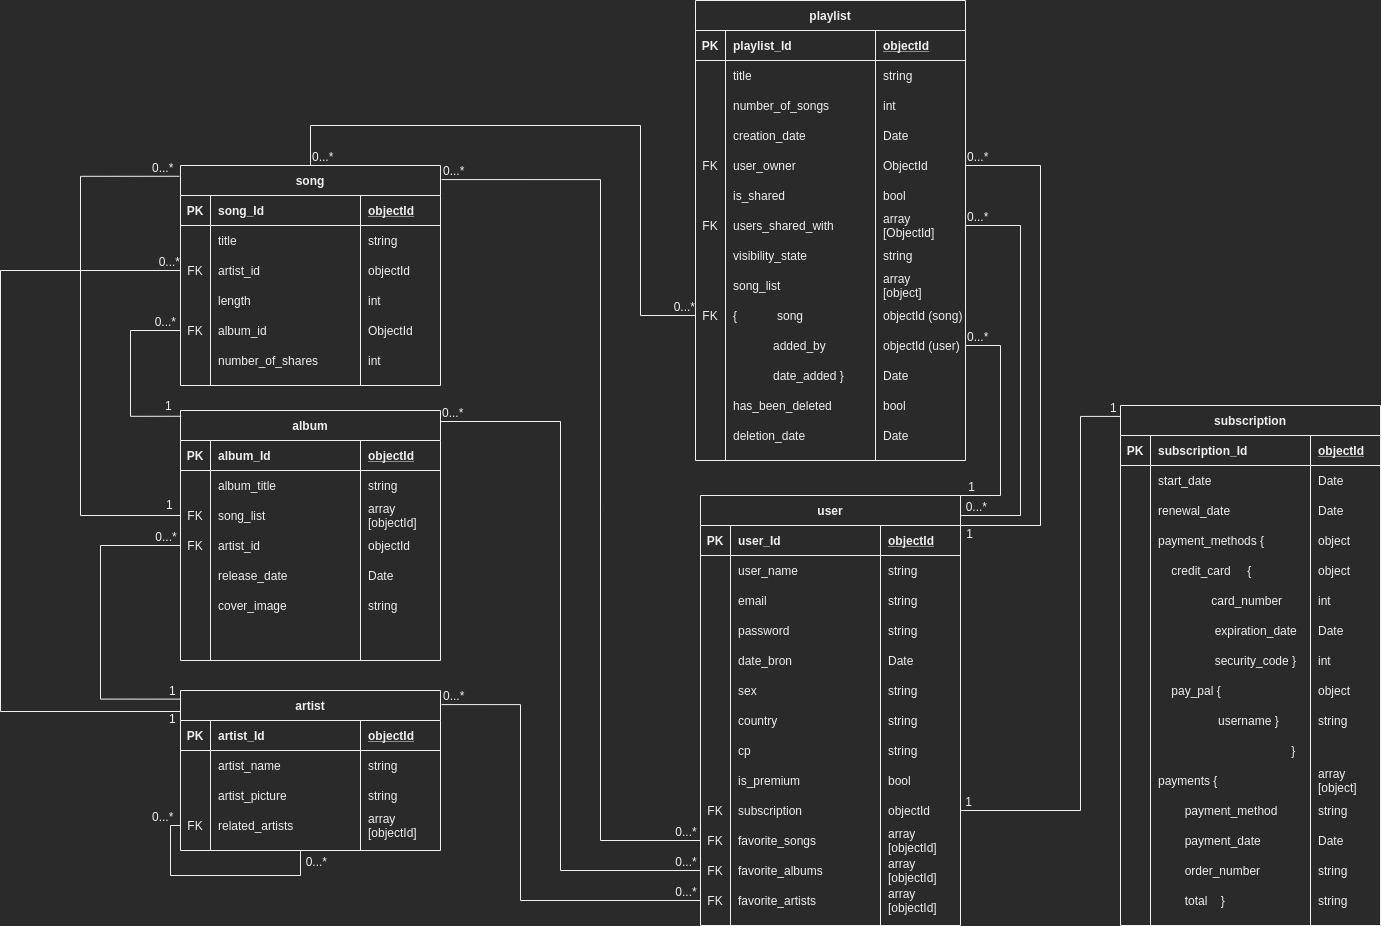
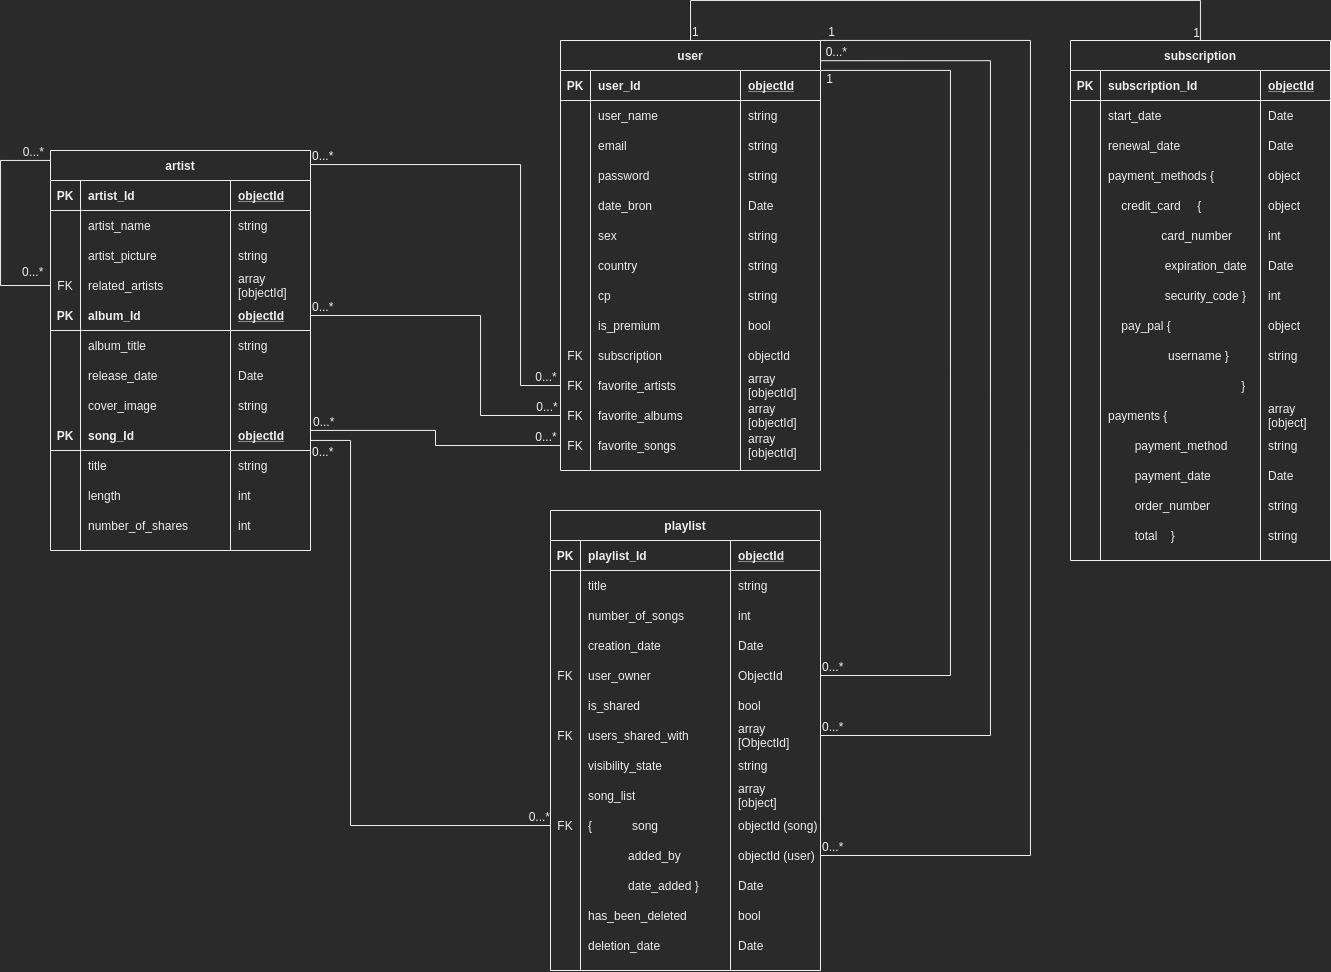
Finish all exercises

diff --git a/mongoDB-estructura/spotify-mongoDB-Script.js b/mongoDB-estructura/spotify-mongoDB-Script.js
@@ -6,67 +6,60 @@ use('ITAcademy-spotify');
 
 
 // The drop() command destroys all data from a collection.
-db.song.drop(); //
-db.album.drop();
 db.artist.drop(); //
-db.playlist.drop();
 db.user.drop()
+db.playlist.drop();
 db.subscription.drop()
-
-db.song.insertMany([{
-        _id: "Money1a897512313657",
-        title: "Money For Nothing",
-        artist: "Dire87d3a1564s6d5",
-        length: 185,
-        album: "Bro65sad8f65as465sf",
-        number_of_shares: 6598771,
-    },
-
-    {
-        _id: "Sofar6sa5d4f65s6sa5",
-        title: "So Far Away",
-        artist: "Dire87d3a1564s6d5",
-        length: 185,
-        album: "Bro65sad8f65as465sf",
-        number_of_shares: 300224,
-
-    }, {
-        _id: "alright65asd4f65as47",
-        title: "It's Alright",
-        artist: "Super87d3a1564s6d5",
-        length: 123,
-        album: "Freea6s5df4d56",
-        number_of_shares: 65496,
-    }
-])
 
 db.artist.insertMany([{
     _id: "Dire87d3a1564s6d5",
     artist_name: "Dire Straits",
     artist_picture: "https://upload.wikimedia.org/wikipedia/commons/a/a2/Dire_straits_22101985_23_800.jpg",
+    albums: [{
+        album_id: "Bro65sad8f65as465sf",
+        album_title: "Brothers in Arms",
+        release_date: ISODate("1985-09-09T06:00:00.171Z"),
+        cover_image: "https://en.wikipedia.org/wiki/Brothers_in_Arms_(album)#/media/File:DS_Brothers_in_Arms.jpg",
+        songs: [{
+            song_id: "Money1a897512313657",
+            title: "Money For Nothing",
+            artist: "Dire87d3a1564s6d5",
+            length: 185,
+            album: "Bro65sad8f65as465sf",
+            number_of_shares: 6598771,
+        },
+        {
+            song_id: "Sofar6sa5d4f65s6sa5",
+            title: "So Far Away",
+            artist: "Dire87d3a1564s6d5",
+            length: 185,
+            album: "Bro65sad8f65as465sf",
+            number_of_shares: 300224,
+    
+        }]
+    }]
 
 }, {
     _id: "Super87d3a1564s6d5",
     artist_name: "Supertramp",
     artist_picture: "https://en.wikipedia.org/wiki/Supertramp#/media/File:Supertramp1971.jpg",
-    related_artists: ["Dire87d3a1564s6d5"]
-}])
-
-db.album.insertMany([{
-    _id: "Freea6s5df4d56",
-    album_title: "Free as a Bird",
-    song_list: ["alright65asd4f65as47"],
-    artist_id: "Super87d3a1564s6d5",
-    release_date: ISODate("1987-09-09T06:00:00.171Z"),
-    cover_image: "https://en.wikipedia.org/wiki/File:Supertramp_-_Free_As_a_Bird.jpg"
-
-}, {
-    _id: "Bro65sad8f65as465sf",
-    album_title: "Brothers in Arms",
-    song_list: ["Money1a897512313657", "Sofar6sa5d4f65s6sa5"],
-    artist_id: "Dire87d3a1564s6d5",
-    release_date: ISODate("1985-09-09T06:00:00.171Z"),
-    cover_image: "https://en.wikipedia.org/wiki/Brothers_in_Arms_(album)#/media/File:DS_Brothers_in_Arms.jpg"
+    related_artists: ["Dire87d3a1564s6d5"],
+    albums:[{
+        album_id: "Freea6s5df4d56",
+        album_title: "Free as a Bird",
+        song_list: ["alright65asd4f65as47"],
+        artist_id: "Super87d3a1564s6d5",
+        release_date: ISODate("1987-09-09T06:00:00.171Z"),
+        cover_image: "https://en.wikipedia.org/wiki/File:Supertramp_-_Free_As_a_Bird.jpg",
+        songs: [{
+            song_id: "alright65asd4f65as47",
+            title: "It's Alright",
+            artist: "Super87d3a1564s6d5",
+            length: 123,
+            album: "Freea6s5df4d56",
+            number_of_shares: 65496,}]
+    
+    }]
 }])
 
 db.user.insertMany([{

diff --git a/mongoDB-estructura/pizzeria-mongoDB-Script.js b/mongoDB-estructura/pizzeria-mongoDB-Script.js
@@ -5,29 +5,38 @@ use('ITAcademy-Pizzeria');
 
 
 // The drop() command destroys all data from a collection.
-db.city.drop();
+
 db.store.drop();
 db.client.drop();
-db.employee.drop();
-db.product.drop()
+db.product.drop();
+db.order.drop();
 
 
-db.city.insertOne({
-    _id: "Bar65489674321",
-    name: "Barcelona",
-    state: {
-        state_id: "Cat897as8d7f5",
-        name: "Catalunya"
-    }
-})
 
 db.store.insertOne({
     _id: "Store9874sadfah4321",
     name: "Antigourmet Comidas",
     street: "C. Churruca 56",
-    pc: "118902",
-    city_id: "Bar65489674321",
     phone_number: "+34913220310",
+    pc: "118902",
+    city: {
+        city_id: "Bar65489674321",
+        name: "Barcelona",},
+    state: {
+        state_id: "Cat897as8d7f5",
+        name: "Catalunya"
+    },
+    employee:
+    {
+        _id: "Emp9875132465",
+        name: "Diego Armando",
+        last_name: "Maradona",
+        nif: "M869756Y",
+        phone_number: "+34 68754",
+        position: "delivery_man",
+        store_id: "Store9874sadfah4321"
+    
+    }
 })
 
 db.client.insertOne({
@@ -37,19 +46,16 @@ db.client.insertOne({
     street: "Pg. de Gràcia, 16, 08008 Barcelona",
     city: "Bar65489674321",
     phone_number: "+34 05468753",
+    city: {
+        city_id: "Bar65489674321",
+        name: "Barcelona",},
+    state: {
+        state_id: "Cat897as8d7f5",
+        name: "Catalunya"
+        }
 
 })
 
-db.employee.insertOne({
-    _id: "Emp9875132465",
-    name: "Diego Armando",
-    last_name: "Maradona",
-    nif: "M869756Y",
-    phone_number: "+34 68754",
-    position: "delivery_man",
-    store_id: "Store9874sadfah4321"
-
-})
 
 db.product.insertMany([{
         _id: "HWPa897512313657",

diff --git a/mongoDB-estructura/youtube-mongoDB-Script.js b/mongoDB-estructura/youtube-mongoDB-Script.js
@@ -57,21 +57,21 @@ db.video.insertOne({
             reaction: "dislike",
             reaction_date: ISODate("2021-10-13T06:06:09.171Z")
         }
-    ]
+    ],
+    tags:[{tag_id:"6a5sd4f654", tag_name:"4K resolution"}],
+    comments:[{
+        comment_id: "lslsk78jdf765akl",
+        comment_owner: "User2a897512313657",
+        body: "I don't like your video",
+        comment_date: ISODate("2021-10-13T06:00:00.171Z"),
+        liked_disliked_by: [{
+            user: "User1a897512313657",
+            reaction: "dislike",
+            reaction_date: ISODate("2021-10-13T06:00:00.171Z")
+        }]
+    }]
 })
 
-db.comment.insertOne({
-    comment_owner: "User2a897512313657",
-    body: "I don't like your video",
-    comment_date: ISODate("2021-10-13T06:00:00.171Z"),
-    video_commented: "Vid65489674321",
-    liked_disliked_by: [{
-        user: "User1a897512313657",
-        reaction: "dislike",
-        reaction_date: ISODate("2021-10-13T06:00:00.171Z")
-    }, ]
-
-})
 
 db.channel.insertOne({
     user_owner: "User1a897512313657",

diff --git a/mongoDB-estructura/optica-mongoDB-Script.js b/mongoDB-estructura/optica-mongoDB-Script.js
@@ -8,7 +8,6 @@ use('ITAcademy');
 
 
 db.client.drop();
-db.glasses.drop();
 db.glassesSupplier.drop();
 
 
@@ -34,7 +33,9 @@ db.client.insertOne({
         stock: 198,
         glassesSupplier_Id: "9874516574321"},
         employee: {
-        employee_id: "65489674321"
+        employee_id: "65489674321",
+        name: "Ariel",
+        last_name:"Gonzalez"        
     }
     })
 
